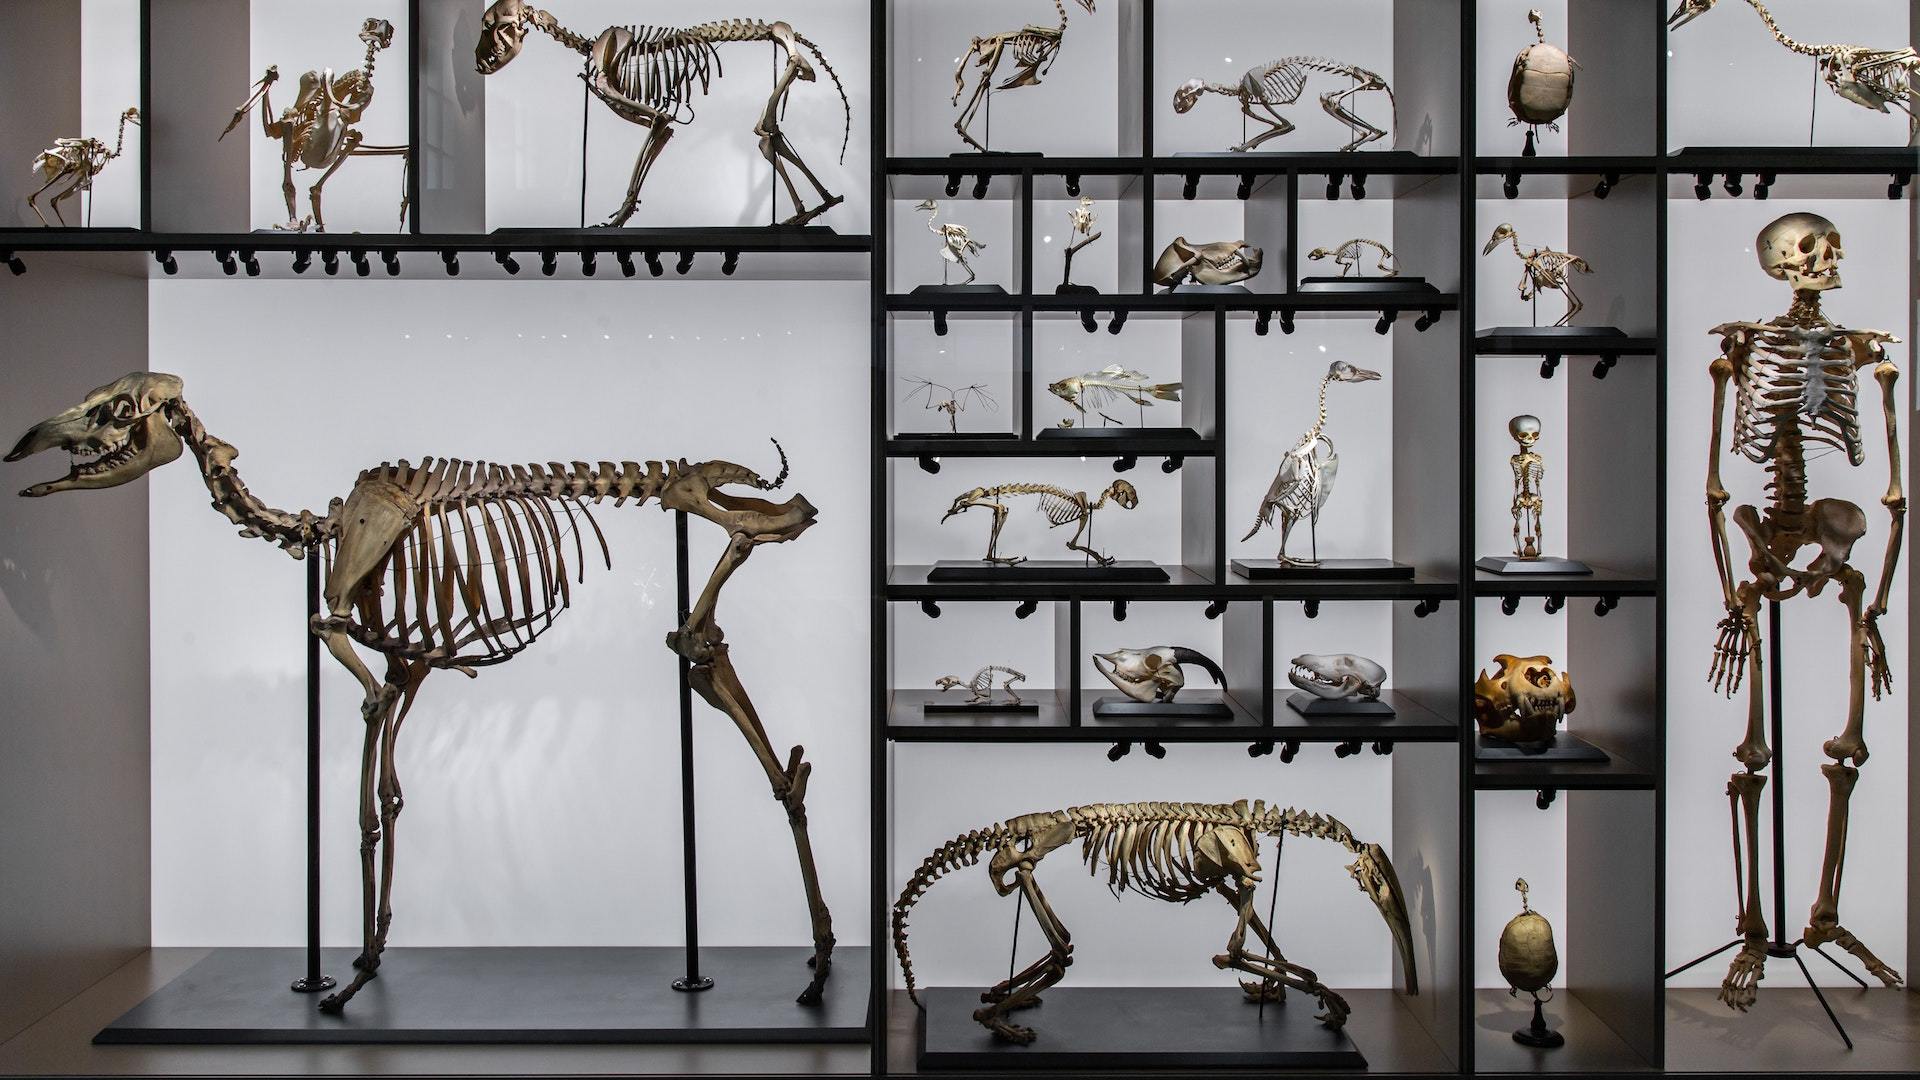
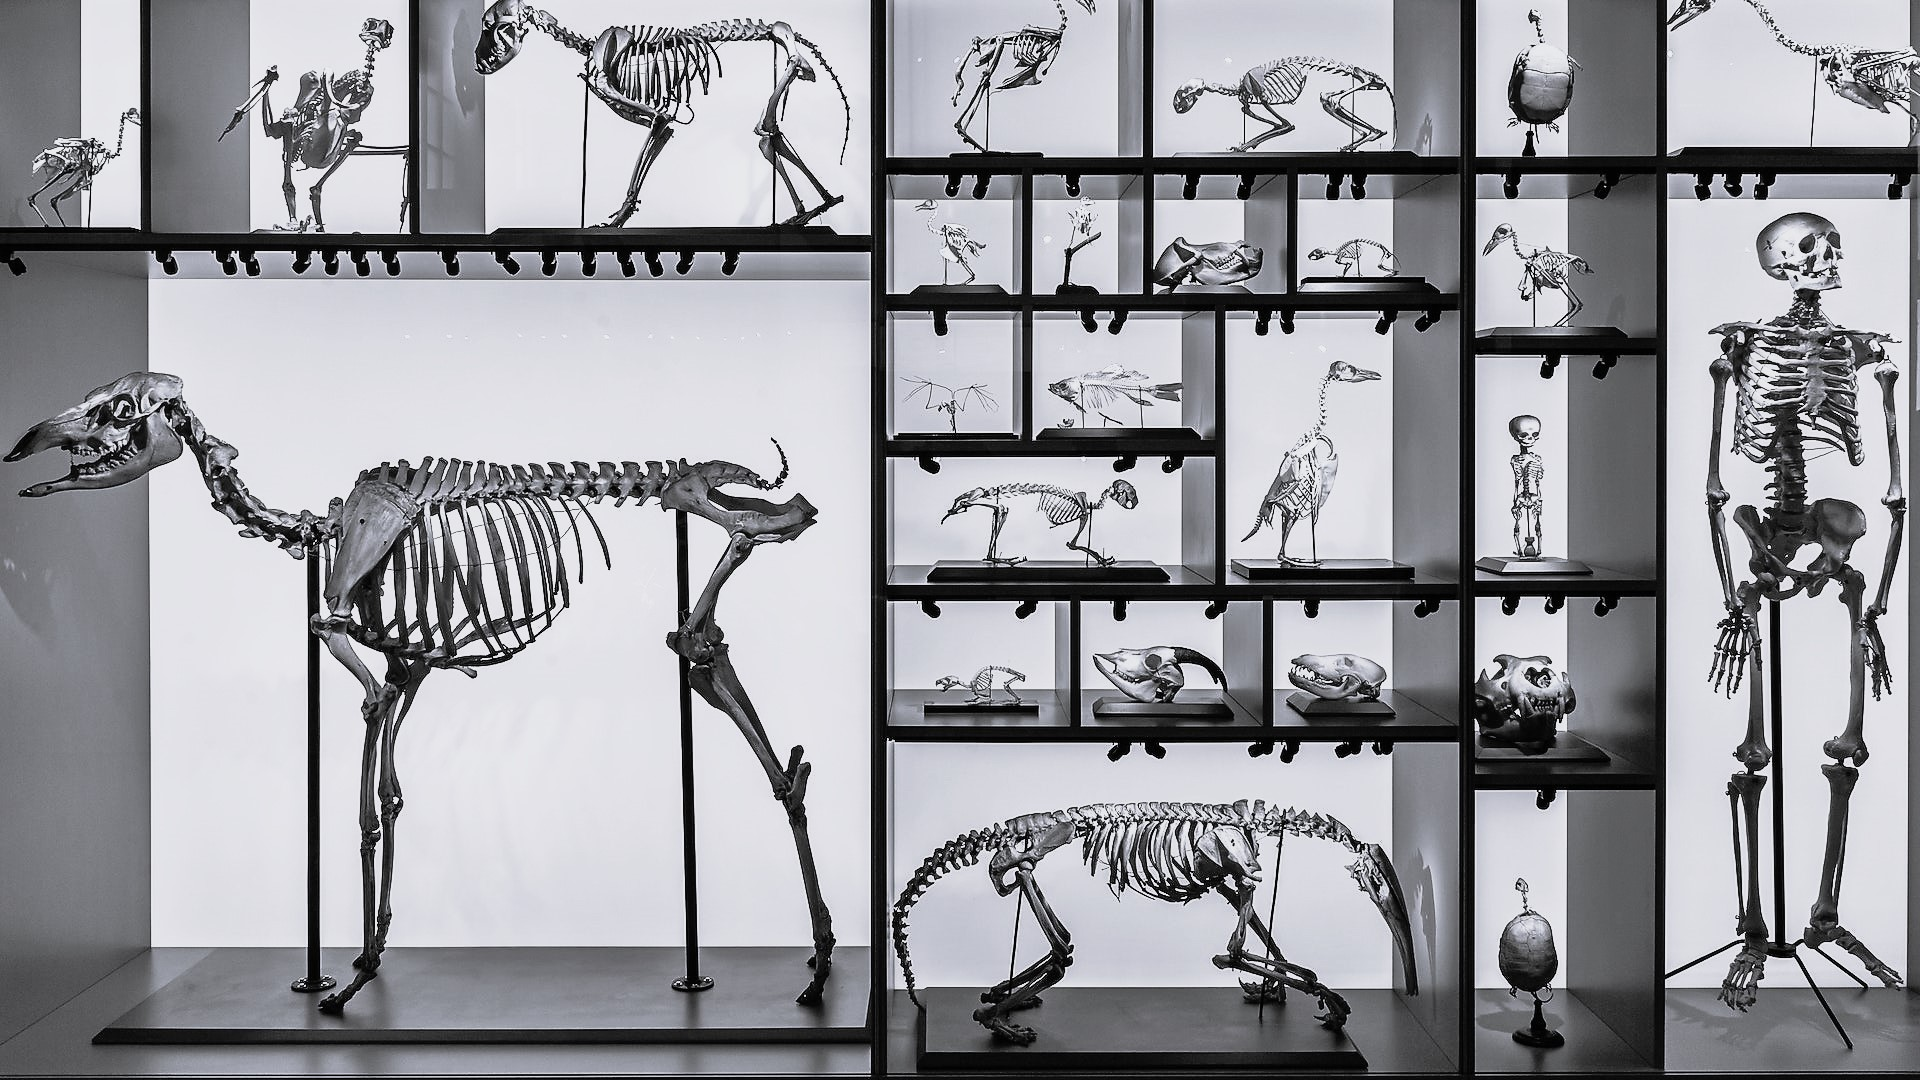
jugando con el background

diff --git a/Trabajo fin primer trimestre/pagina 1.html b/Trabajo fin primer trimestre/pagina 1.html
@@ -10,108 +10,127 @@
 </head>
 
 <body>
+    <div class="contenido">
 
-    <h1>Charles Darwin</h1>
-    <div id=encabezado1>
-        <div id="caja">
-            <picture class="portafotoDarwin">
-                <img class="fotoDarwin" src="Darwin.jpg"
-                    srcset="Darwin-small.jpg 480w, Darwin-medium.jpg 800w, Darwin.jpg 1200w"
-                    alt="Foto de Charles Darwin">
+        <h1>Charles Darwin</h1>
+        <div id=encabezado1>
+            <div id="caja">
+                <picture class="portafotoDarwin">
+                    <img class="fotoDarwin" src="Darwin.jpg"
+                        srcset="Darwin-small.jpg 480w, Darwin-medium.jpg 800w, Darwin.jpg 1200w"
+                        alt="Foto de Charles Darwin">
 
-            </picture>
+                </picture>
+            </div>
+            <div id=encabezado2>
+                <p>Desde muy pequeño Darwin dio muestras de una gran afición por el coleccionismo, le gustaba recolectar
+                    y
+                    clasificar conchas y minerales, pero también monedas y sellos.
+                    Era el quinto de seis hermanos y en su familia (especialmente en su abuelo) siempre hubo interés por
+                    el
+                    estudio
+                    de la naturaleza. De esta forma el pequeño Darwin aprendió, desde muy pequeño, a amar el
+                    conocimiento
+                    por el
+                    mundo natural. Otra idea importante que le fue enseñada desde su infancia es el respeto por todas
+                    las
+                    personas,
+                    de hecho la familia de Darwin siempre estuvo en contra de la esclavitud de personas de cualquier
+                    raza.
+                </p>
+
+                <p>En 1825 ingresó en la universidad de Edimburgo para estudiar medicina y seguir los pasos de su padre.
+                    Pero a
+                    Darwin no le interesaba la medicina y aunque aprendió muchas cosas útiles en Edimburgo (taxidermia,
+                    anatomía
+                    y
+                    geología) tras un par de años decidió, junto a su padre, ir al Christ's College en Cambridge para
+                    realizar
+                    la
+                    licenciatura en Artes y llegar a ser pastor anglicano. Durante su estancia en Cambridge Darwin
+                    aumento
+                    sus
+                    conocimientos en ciencias naturales, especialmente en entomología, gracias al profesor de botánica
+                    John
+                    Stevens
+                    Henslow.</p>
+
+                <p>Terminados sus estudios, en 1831, Darwin tenía claro que no quería dedicarse a la carrera
+                    eclesiástica,
+                    por
+                    el
+                    contrario cada vez estaba más decidido a dedicarse en cuerpo y alma a la investigación de la
+                    naturaleza.
+                    Inspirado por la lectura de los viajes científicos de Alexander von Humboldt, Darwin empezó a tener
+                    claro
+                    que
+                    debía ampliar sus conocimientos participando en una misión científica que le permitiera viajar a
+                    otros
+                    lugares
+                    del planeta.</p>
+                <p>Esta oportunidad le llegó muy pronto cuando embarcó en el HMS Beagle para una misión que durante
+                    cinco
+                    años
+                    le
+                    llevaría a América del Sur, África y Oceanía.</p>
+                <p>Durante este viaje Darwin pudo estudiar y recolectar muchas especies tanto marinas como terrestres.
+                    Examinó y
+                    tomo notas sobre ejemplares fósiles, plantas, invertebrados.... Pero también sobre minerales y rocas
+                    y
+                    sobre
+                    como éstas se conforman en estratos. Poco a poco, año tras año y observación tras observación,
+                    Darwin
+                    comenzó a
+                    desarrollar una idea: una hipótesis sobre el origen de las especies.</p>
+
+
+                <p> Cuando Darwin regresó a Inglaterra ya era un científico famoso debido a las colecciones de animales,
+                    fósiles y
+                    plantas que él había ido enviando durante su viaje.
+                    Tras mucho trabajo relacionado con las increíbles colecciones que había conseguido durante su misión
+                    científica,
+                    Darwin decidió casarse y unos años después se trasladó con su familia al campo, buscando la
+                    tranquilidad
+                    que
+                    necesitaba para desarrollar, con calma, sus ideas científicas.
+                    Durante muchos años estuvo estudiando sus colecciones, ampliando sus lecturas y repasando las
+                    anotaciones que
+                    realizó durante su viaje. Poco a poco fue cristalizando en su mente la idea de que la diversidad
+                    biológica se
+                    debe a que las especies han ido evolucionando a lo largo del tiempo mediante un proceso de selección
+                    natural.
+                    Esta evolución permite la adaptación de los seres vivos a los constantes cambios que sufre su
+                    entorno.
+                </p>
+
+                <p>Darwin presentó su teoría a la “Sociedad Linneana de Londres”, junto con un artículo de Alfred Russel
+                    Wallace
+                    quien había llegado a las mismas conclusiones de forma independiente. Unos años después publicó sus
+                    ideas en el
+                    libro “Sobre el origen de las especies” donde desarrollaba mejor su teoría a la vez que la respalda
+                    con
+                    multitud
+                    de evidencias. Este libro fue un “superventas” y generó mucha controversia, la sociedad aún no
+                    estaba
+                    preparada
+                    para las ideas de Darwin.</p>
+            </div>
         </div>
-        <div id=encabezado2>
-            <p>Desde muy pequeño Darwin dio muestras de una gran afición por el coleccionismo, le gustaba recolectar y
-                clasificar conchas y minerales, pero también monedas y sellos.
-                Era el quinto de seis hermanos y en su familia (especialmente en su abuelo) siempre hubo interés por el
-                estudio
-                de la naturaleza. De esta forma el pequeño Darwin aprendió, desde muy pequeño, a amar el conocimiento
-                por el
-                mundo natural. Otra idea importante que le fue enseñada desde su infancia es el respeto por todas las
-                personas,
-                de hecho la familia de Darwin siempre estuvo en contra de la esclavitud de personas de cualquier raza.
-            </p>
-
-            <p>En 1825 ingresó en la universidad de Edimburgo para estudiar medicina y seguir los pasos de su padre.
-                Pero a
-                Darwin no le interesaba la medicina y aunque aprendió muchas cosas útiles en Edimburgo (taxidermia,
-                anatomía
-                y
-                geología) tras un par de años decidió, junto a su padre, ir al Christ's College en Cambridge para
-                realizar
-                la
-                licenciatura en Artes y llegar a ser pastor anglicano. Durante su estancia en Cambridge Darwin aumento
-                sus
-                conocimientos en ciencias naturales, especialmente en entomología, gracias al profesor de botánica John
-                Stevens
-                Henslow.</p>
-
-            <p>Terminados sus estudios, en 1831, Darwin tenía claro que no quería dedicarse a la carrera eclesiástica,
-                por
-                el
-                contrario cada vez estaba más decidido a dedicarse en cuerpo y alma a la investigación de la naturaleza.
-                Inspirado por la lectura de los viajes científicos de Alexander von Humboldt, Darwin empezó a tener
-                claro
-                que
-                debía ampliar sus conocimientos participando en una misión científica que le permitiera viajar a otros
-                lugares
-                del planeta.</p>
-            <p>Esta oportunidad le llegó muy pronto cuando embarcó en el HMS Beagle para una misión que durante cinco
-                años
-                le
-                llevaría a América del Sur, África y Oceanía.</p>
-            <p>Durante este viaje Darwin pudo estudiar y recolectar muchas especies tanto marinas como terrestres.
-                Examinó y
-                tomo notas sobre ejemplares fósiles, plantas, invertebrados.... Pero también sobre minerales y rocas y
-                sobre
-                como éstas se conforman en estratos. Poco a poco, año tras año y observación tras observación, Darwin
-                comenzó a
-                desarrollar una idea: una hipótesis sobre el origen de las especies.</p>
 
 
-            <p> Cuando Darwin regresó a Inglaterra ya era un científico famoso debido a las colecciones de animales,
-                fósiles y
-                plantas que él había ido enviando durante su viaje.
-                Tras mucho trabajo relacionado con las increíbles colecciones que había conseguido durante su misión
-                científica,
-                Darwin decidió casarse y unos años después se trasladó con su familia al campo, buscando la tranquilidad
-                que
-                necesitaba para desarrollar, con calma, sus ideas científicas.
-                Durante muchos años estuvo estudiando sus colecciones, ampliando sus lecturas y repasando las
-                anotaciones que
-                realizó durante su viaje. Poco a poco fue cristalizando en su mente la idea de que la diversidad
-                biológica se
-                debe a que las especies han ido evolucionando a lo largo del tiempo mediante un proceso de selección
-                natural.
-                Esta evolución permite la adaptación de los seres vivos a los constantes cambios que sufre su entorno.
-            </p>
+        <nav>
+            <!-- <a href="./pag2.html">Pasar a Página 2</a> -->
+            <ul>
+                <a href="./pagina 1.html">
+                    <li id="seleccionado">Página 1</li>
+                </a>
 
-            <p>Darwin presentó su teoría a la “Sociedad Linneana de Londres”, junto con un artículo de Alfred Russel
-                Wallace
-                quien había llegado a las mismas conclusiones de forma independiente. Unos años después publicó sus
-                ideas en el
-                libro “Sobre el origen de las especies” donde desarrollaba mejor su teoría a la vez que la respalda con
-                multitud
-                de evidencias. Este libro fue un “superventas” y generó mucha controversia, la sociedad aún no estaba
-                preparada
-                para las ideas de Darwin.</p>
-        </div>
+                <a href="./pagina 2.html">
+                    <li>Página 2</li>
+                </a>
+            </ul>
+        </nav>
     </div>
-
-
-    <nav>
-        <!-- <a href="./pag2.html">Pasar a Página 2</a> -->
-        <ul>
-            <a href="./pagina 1.html">
-                <li id="seleccionado">Página 1</li>
-            </a>
-
-            <a href="./pagina 2.html">
-                <li>Página 2</li>
-            </a>
-        </ul>
-    </nav>
 </body>
 
 </html>

diff --git a/Trabajo fin primer trimestre/pagina 2.html b/Trabajo fin primer trimestre/pagina 2.html
@@ -8,44 +8,50 @@
     <title>Página 2 del trabajo fin de trimestre</title>
     <link href="./estilos.css" rel="stylesheet">
 </head>
-<style>
-    
-</style>
 
 <body>
-    
-    <h1>Teoría de la evolución</h1>
-    <div id="caja">
-        <picture class="portafoto">
-            <img class="fotoTeoria" src="Teoria evolucion.jpg"
-                srcset="Teoria evolucion-small.jpg 480w, Teoria evolucion-medium.jpg 800w, Teoria evolucion.jpg 1200w"
-                alt="Foto de la Teoría de la Evolución">
-        </picture>
+    <div class="contenido">
+        <h1>Teoría de la evolución</h1>
+        <div id="caja">
+            <picture class="portafoto">
+                <img class="fotoTeoria" src="Teoria evolucion.jpg"
+                    srcset="Teoria evolucion-small.jpg 480w, Teoria evolucion-medium.jpg 800w, Teoria evolucion.jpg 1200w"
+                    alt="Foto de la Teoría de la Evolución">
+            </picture>
+        </div>
+        <p>La Teoría de la Evolución de Charles Darwin sostiene que las especies evolucionan a través del tiempo
+            mediante la
+            selección natural. Esto significa que las características que son útiles para la supervivencia y la
+            reproducción
+            de un organismo se vuelven más comunes en la población a medida que se transmiten de una generación a otra.
+        </p>
+        <p>Por ejemplo, si un grupo de animales tiene una variación en su color de pelo, los animales con un color de
+            pelo
+            que los hace más difíciles de ver por sus depredadores tendrán más éxito en la reproducción y sobrevivirán
+            más
+            tiempo, lo que aumentará la frecuencia de ese color de pelo en la población.</p>
+        <p>La Teoría de la Evolución de Darwin es uno de los conceptos fundamentales en la biología moderna y ha tenido
+            un
+            impacto profundo en la comprensión de la vida en la Tierra. Aunque sus ideas fueron controvertidas en su
+            época,
+            hoy en día son ampliamente aceptadas por la comunidad científica y han sido confirmadas por una gran
+            cantidad de
+            evidencia empírica.</p>
+        <nav>
+            
+            <ul>
+                <a href="./pagina 1.html">
+                    <li>Página 1</li>
+
+                </a>
+
+                <a href="./pagina 2.html">
+                    <li id="seleccionado">Página 2</li>
+
+                </a>
+            </ul>
+        </nav>
     </div>
-    <p>La Teoría de la Evolución de Charles Darwin sostiene que las especies evolucionan a través del tiempo mediante la
-        selección natural. Esto significa que las características que son útiles para la supervivencia y la reproducción
-        de un organismo se vuelven más comunes en la población a medida que se transmiten de una generación a otra.</p>
-    <p>Por ejemplo, si un grupo de animales tiene una variación en su color de pelo, los animales con un color de pelo
-        que los hace más difíciles de ver por sus depredadores tendrán más éxito en la reproducción y sobrevivirán más
-        tiempo, lo que aumentará la frecuencia de ese color de pelo en la población.</p>
-    <p>La Teoría de la Evolución de Darwin es uno de los conceptos fundamentales en la biología moderna y ha tenido un
-        impacto profundo en la comprensión de la vida en la Tierra. Aunque sus ideas fueron controvertidas en su época,
-        hoy en día son ampliamente aceptadas por la comunidad científica y han sido confirmadas por una gran cantidad de
-        evidencia empírica.</p>
-    <nav>
-        <!-- <a href="./pag2.html">Pasar a Página 2</a> -->
-        <ul>
-            <a href="./pagina 1.html">
-                <li>Página 1</li>
-
-            </a>
-
-            <a href="./pagina 2.html">
-                <li id="seleccionado">Página 2</li>
-
-            </a>
-        </ul>
-    </nav>
 </body>
 
 </html>

diff --git a/Trabajo fin primer trimestre/estilos.css b/Trabajo fin primer trimestre/estilos.css
@@ -1,6 +1,10 @@
 body {
-    background-color: lightslategray;
-    background-image:"imagenbackground.jpg" alt="fondo estateria animales museo">;
+    
+    background-image:url(https://github.com/AlbertoMorenoFdez/publico/blob/main/Trabajo%20fin%20primer%20trimestre/imagenbackground.jpg?raw=true);
+    opacity: 1 !important;
+}
+.contenido{
+    opacity: 1;
 }
 
 @media screen and (orientation:portrait){
